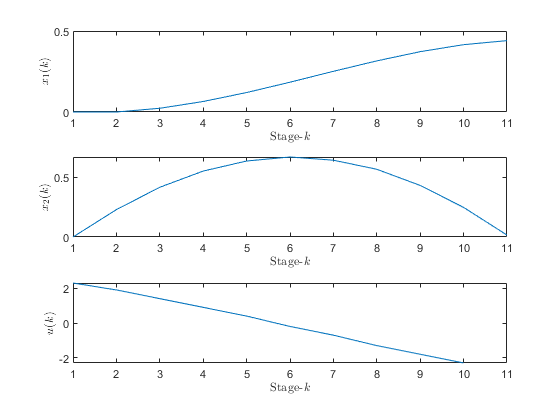
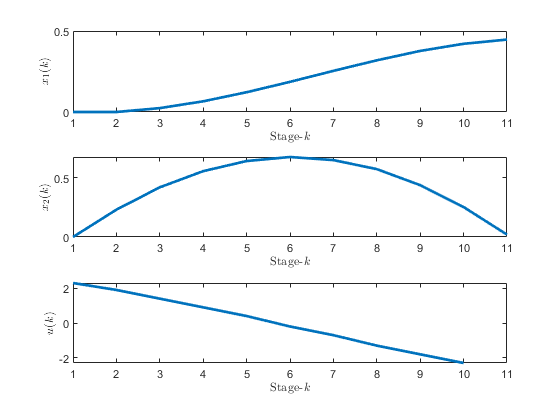
Re-simulating the dynamics during forward tracing is a bad idea!

diff --git a/trace_2X_1U.m b/trace_2X_1U.m
@@ -12,26 +12,25 @@ X1                = dps.X1;
 X2                = dps.X2;
 U_star_matrix     = dps.U_star_matrix;
 descendant_matrix = dps.descendant_matrix;
-state_update_fn   = dps.state_update_fn;
 
 % Initial stage is given by the IC
-r = snap(x1_ic, min(X1), max(X1), nX1-1);
-c = snap(x2_ic, min(X2), max(X2), nX2-1);
-
-id = sub2ind([nX1 nX2], r, c);
-[x1_id,x2_id] = ind2sub([nX1 nX2], id);
-x1_star(1) = X1(x1_id);
-x2_star(1) = X2(x2_id);
+r = snap(x1_ic, min(X1), max(X1), nX1);
+c = snap(x2_ic, min(X2), max(X2), nX2);
+x1_star(1) = X1(r);
+x2_star(1) = X2(c);
 
 % Trace to the end horizon
 fprintf('Froward tracing, please wait...\n')
 
-for k = 1 : n_horizon-1        
+id = sub2ind([nX1 nX2], r, c);
+for k = 1 : n_horizon-1      
     u_star(k)  = U_star_matrix(id, k);
-    [x1_star(k+1), x2_star(k+1)] = state_update_fn(x1_star(k), ...
-                                   x2_star(k), u_star(k));
-                               
-    id = descendant_matrix(id,k);        
+    
+    id = descendant_matrix(id,k);
+    [x1_id,x2_id] = ind2sub([nX1 nX2], id);               
+    
+    x1_star(k+1) = X1(x1_id);
+    x2_star(k+1) = X2(x2_id);    
 end
 
 fprintf('Complete!\n');
@@ -40,5 +39,4 @@ fprintf('Complete!\n');
 dps.x1_star = x1_star;
 dps.x2_star = x2_star;
 dps.u_star  = u_star;
-
 end

diff --git a/trace_3X_1U.m b/trace_3X_1U.m
@@ -15,28 +15,29 @@ X2                = dps.X2;
 X3                = dps.X3;
 U_star_matrix     = dps.U_star_matrix;
 descendant_matrix = dps.descendant_matrix;
-state_update_fn   = dps.state_update_fn;
 
 % Initial stage is given by the IC
 r = snap(x1_ic, min(X1), max(X1), nX1-1);
 c = snap(x2_ic, min(X2), max(X2), nX2-1);
 p = snap(x3_ic, min(X3), max(X3), nX3-1);
-
-id = sub2ind([nX1 nX2 nX3], r, c, p);
-[x1_id, x2_id, x3_id] = ind2sub([nX1 nX2 nX3], id);
-x1_star(1) = X1(x1_id);
-x2_star(2) = X2(x2_id);
-x3_star(3) = X3(x3_id);
+x1_star(1) = X1(r);
+x2_star(2) = X2(c);
+x3_star(3) = X3(p);
 
 % Trace to the end horizon
 fprintf('Froward tracing, please wait...\n')
 
+id = sub2ind([nX1 nX2 nX3], r, c, p);
 for k = 1 : n_horizon-1 
     u_star(k)  = U_star_matrix(id, k);    
-    [x1_star(k+1), x2_star(k+1), x3_star(k+1)] = ...
-        state_update_fn(x1_star(k), x2_star(k), x3_star(k), u_star(k));
     
     id = descendant_matrix(id,k);
+    [x1_id,x2_id,x3_id] = ind2sub([nX1 nX2 nX3], id);               
+
+    
+    x1_star(k+1) = X1(x1_id);
+    x2_star(k+1) = X2(x2_id);   
+    x3_star(k+1) = X3(x3_id);   
 end
 
 fprintf('Complete!\n');

diff --git a/demo_07_mountain_car.m b/demo_07_mountain_car.m
@@ -19,7 +19,7 @@ dps = dps_2X_1U(P, V, U, n_horizon, @state_update_fn, @stage_cost_fn, ...
                 @terminal_cost_fn);
 
 % Extract meaningful results
-dps = trace_2X_1U(dps, -0.5, 0);
+dps = trace_2X_1U(dps, -0.6, 0);
 
 % Do plotting here
 plot_2X_1U(dps, '-');
@@ -30,11 +30,6 @@ visualize(dps);
 function [p_next, v_next] = state_update_fn(p, v, u)
 v_next = v + 0.001*u - 0.0025*cos(3*p);
 p_next = p + v;
-
-% Left wall is inelastic
-if p_next <= -1.2
-    v_next = 0;
-end
 end
 
 %%
@@ -58,8 +53,9 @@ hold on;
 
 % Draw y = sine(3p)to representate a mountain
 p = -1.2:0.001:0.5;
-plot(p, sin(3 * p));    
+plot(p, 0.4*sin(3 * p), 'LineWidth', 2);    
 set(gca, 'YTickLabel', [ ]); 
+axis equal
 
 htext1 = text(-0.7,0.5, '');
 htext2 = text(-0.7,0.4, '');
@@ -70,7 +66,7 @@ for k = 1 : dps.n_horizon
     set(car, 'XData', dps.x1_star(k));
     
     % Plug the XStar to the equation of the mountain
-    set(car, 'YData', sin(3*dps.x1_star(k))); 
+    set(car, 'YData', 0.4*sin(3*dps.x1_star(k))); 
     
     htext1.String = ['Stage-', num2str(k), ', x = ', ...
         num2str(dps.x1_star(k)),', v = ', num2str(dps.x2_star(k))] ;

diff --git a/plot_2X_2U.m b/plot_2X_2U.m
@@ -1,7 +1,7 @@
 function plot_2X_2U(dps, line_style)
 figure
 subplot(4,1,1)
-plot(dps.x1_star, line_style)
+plot(dps.x1_star, line_style, 'LineWidth', 2)
 xlabel(['Stage-' '$k$'], 'Interpreter','latex')
 ylabel('$x_1(k)$', 'Interpreter','latex')
 xlim([1 dps.n_horizon])
@@ -10,7 +10,7 @@ ax = gca;
 ax.XTick = unique(round(ax.XTick) );
 
 subplot(4,1,2)
-plot(dps.x2_star, line_style)
+plot(dps.x2_star, line_style, 'LineWidth', 2)
 xlabel(['Stage-' '$k$'], 'Interpreter','latex')
 ylabel('$x_2(k)$', 'Interpreter','latex')
 xlim([1 dps.n_horizon])
@@ -19,7 +19,7 @@ ax = gca;
 ax.XTick = unique(round(ax.XTick) );
 
 subplot(4,1,3)
-plot(dps.u1_star, line_style)
+plot(dps.u1_star, line_style, 'LineWidth', 2)
 xlabel(['Stage-' '$k$'], 'Interpreter','latex')
 ylabel('$u_1(k)$', 'Interpreter','latex')
 xlim([1 dps.n_horizon])
@@ -29,7 +29,7 @@ ax = gca;
 ax.XTick = unique(round(ax.XTick) );
 
 subplot(4,1,4)
-plot(dps.u2_star, line_style)
+plot(dps.u2_star, line_style, 'LineWidth', 2)
 xlabel(['Stage-' '$k$'], 'Interpreter','latex')
 ylabel('$u_2(k)$', 'Interpreter','latex')
 xlim([1 dps.n_horizon])

diff --git a/plot_3X_1U.m b/plot_3X_1U.m
@@ -1,7 +1,7 @@
 function plot_3X_1U(dps, line_style)
 figure
 subplot(4,1,1)
-plot(dps.x1_star, line_style)
+plot(dps.x1_star, line_style, 'LineWidth', 2)
 xlabel(['Stage-' '$k$'], 'Interpreter','latex')
 ylabel('$x_1(k)$', 'Interpreter','latex')
 xlim([1 dps.n_horizon])
@@ -10,7 +10,7 @@ ax = gca;
 ax.XTick = unique(round(ax.XTick) );
 
 subplot(4,1,2)
-plot(dps.x2_star, line_style)
+plot(dps.x2_star, line_style, 'LineWidth', 2)
 xlabel(['Stage-' '$k$'], 'Interpreter','latex')
 ylabel('$x_2(k)$', 'Interpreter','latex')
 xlim([1 dps.n_horizon])
@@ -19,7 +19,7 @@ ax = gca;
 ax.XTick = unique(round(ax.XTick) );
 
 subplot(4,1,3)
-plot(dps.x3_star, line_style)
+plot(dps.x3_star, line_style, 'LineWidth', 2)
 xlabel(['Stage-' '$k$'], 'Interpreter','latex')
 ylabel('$x_3(k)$', 'Interpreter','latex')
 xlim([1 dps.n_horizon])
@@ -29,7 +29,7 @@ ax.XTick = unique(round(ax.XTick) );
 
 
 subplot(4,1,4)
-plot(dps.u_star, line_style)
+plot(dps.u_star, line_style, 'LineWidth', 2)
 xlabel(['Stage-' '$k$'], 'Interpreter','latex')
 ylabel('$u(k)$', 'Interpreter','latex')
 xlim([1 dps.n_horizon])

diff --git a/trace_2X_2U.m b/trace_2X_2U.m
@@ -14,27 +14,26 @@ X2                = dps.X2;
 U1_star_matrix    = dps.U1_star_matrix;
 U2_star_matrix    = dps.U2_star_matrix;
 descendant_matrix = dps.descendant_matrix;
-state_update_fn   = dps.state_update_fn;
 
 % Initial stage is given by the IC
 r = snap(x1_ic, min(X1), max(X1), nX1-1);
 c = snap(x2_ic, min(X2), max(X2), nX2-1);
-
-id = sub2ind([nX1 nX2], r, c);
-[x1_id,x2_id] = ind2sub([nX1 nX2], id);
-x1_star(1) = X1(x1_id);
-x2_star(1) = X2(x2_id);
+x1_star(1) = X1(r);
+x2_star(1) = X2(c);
 
 % Trace to the end horizon
 fprintf('Froward tracing, please wait...\n')
 
+id = sub2ind([nX1 nX2], r, c);
 for k = 1 : n_horizon-1
     u1_star(k)  = U1_star_matrix(id, k);
     u2_star(k)  = U2_star_matrix(id, k);    
-    [x1_star(k+1), x2_star(k+1)] = state_update_fn(x1_star(k), ...
-                                   x2_star(k), u1_star(k), u2_star(k));
     
     id = descendant_matrix(id,k);
+    [x1_id,x2_id] = ind2sub([nX1 nX2], id);   
+    
+    x1_star(k+1) = X1(x1_id);
+    x2_star(k+1) = X2(x2_id); 
 end
 
 fprintf('Complete!\n');

diff --git a/dps_3X_1U.m b/dps_3X_1U.m
@@ -64,10 +64,6 @@ x1_next_post_boundary = min(max(x1_next, lb(1)), ub(1));
 x2_next_post_boundary = min(max(x2_next, lb(2)), ub(2));
 x3_next_post_boundary = min(max(x3_next, lb(3)), ub(3));
 
-is_infeasible = (x1_next~=x1_next_post_boundary) + ...
-    (x2_next~=x2_next_post_boundary) + ...
-    (x3_next~=x3_next_post_boundary);
-
 r = snap(x1_next_post_boundary, repmat(lb(1),nX,nU), repmat(ub(1),nX,nU), ...
     repmat(nX1,nX,nU));
 c = snap(x2_next_post_boundary, repmat(lb(2),nX,nU), repmat(ub(2),nX,nU), ...
@@ -89,7 +85,7 @@ for k = n_horizon-1 : -1 : 1
     ll = fprintf('%i',k);    
     
     J_ = stage_cost_fn(X1(r), X2(c), X3(p), repmat(U',nX,1), k) + ...
-        reshape(J(ind,k+1),nX,nU) + is_infeasible .* 1e6;
+        reshape(J(ind,k+1),nX,nU);
     
     [J_min, J_min_idx] = min(J_, [], 2);
     
@@ -112,5 +108,4 @@ dps.X1                  = X1;
 dps.X2                  = X2;
 dps.X3                  = X3;
 dps.U                   = U;
-dps.state_update_fn     = state_update_fn;
 end

diff --git a/dps_2X_1U.m b/dps_2X_1U.m
@@ -59,9 +59,6 @@ i = repmat((1:nX)', 1,nU);
 x1_next_post_boundary = min(max(x1_next, lb(1)), ub(1));
 x2_next_post_boundary = min(max(x2_next, lb(2)), ub(2));
 
-is_infeasible = (x1_next~=x1_next_post_boundary) + ...
-    (x2_next~=x2_next_post_boundary);
-
 r = snap(x1_next_post_boundary, repmat(lb(1),nX,nU), repmat(ub(1),nX,nU), ...
     repmat(nX1,nX,nU));
 c = snap(x2_next_post_boundary, repmat(lb(2),nX,nU), repmat(ub(2),nX,nU), ...
@@ -81,7 +78,7 @@ for k = n_horizon-1 : -1 : 1
     ll = fprintf('%i',k);
     
     J_ = stage_cost_fn(X1(r), X2(c), repmat(U',nX,1), k) + ...
-        reshape(J(ind,k+1),nX,nU) + is_infeasible .* 1e9;
+        reshape(J(ind,k+1),nX,nU);
     
     [J_min, J_min_idx] = min(J_, [], 2);
     
@@ -103,6 +100,5 @@ dps.n_horizon = n_horizon;
 dps.X1                  = X1;
 dps.X2                  = X2;
 dps.U                   = U;
-dps.state_update_fn     = state_update_fn;
 
 end

diff --git a/dps_2X_2U.m b/dps_2X_2U.m
@@ -68,9 +68,6 @@ j = repmat((1:nU) , nX, 1);
 x1_next_post_boundary = min(max(x1_next, lb(1)), ub(1));
 x2_next_post_boundary = min(max(x2_next, lb(2)), ub(2));
 
-is_infeasible = (x1_next~=x1_next_post_boundary) + ...
-    (x2_next~=x2_next_post_boundary);
-
 rx = snap(x1_next_post_boundary, repmat(lb(1),nX,nU), repmat(ub(1),nX,nU), ...
     repmat(nX1,nX,nU));
 cx = snap(x2_next_post_boundary, repmat(lb(2),nX,nU), repmat(ub(2),nX,nU), ...
@@ -90,7 +87,7 @@ for k = n_horizon-1 : -1 : 1
     ll = fprintf('%i',k);
     
     J_ = stage_cost_fn(X1(rx), X2(cx), U1(ru), U2(cu), k) + ...
-        reshape(J(ind,k+1),nX,nU) + is_infeasible .* 1e6;
+        reshape(J(ind,k+1),nX,nU);
     
     [J_min, J_min_idx] = min(J_, [], 2);
     
@@ -116,6 +113,5 @@ dps.X1        = X1;
 dps.X2        = X2;
 dps.U1        = U1;
 dps.U2        = U2;
-dps.state_update_fn     = state_update_fn;
 
 end

diff --git a/dps_1X_1U.m b/dps_1X_1U.m
@@ -48,8 +48,6 @@ x_next = state_update_fn(X(i), repmat(U',nX,1));
 % Bound the states within the minimum and maximum values
 x_next_post_boundary = min(max(x_next, lb), ub);
 
-is_infeasible = (x_next~=x_next_post_boundary);
-
 ind = snap(x_next_post_boundary, ...
     repmat(lb,nX,nU), repmat(ub,nX,nU), repmat(nX,nX,nU));
 
@@ -65,7 +63,7 @@ for k = n_horizon-1 : -1 : 1
     ll = fprintf('%i',k);
     
     J_ = stage_cost_fn(X(i), repmat(U',nX,1), k) ...
-        + reshape(J(ind,k+1),nX,nU) + is_infeasible .* 1e6;
+        + reshape(J(ind,k+1),nX,nU);
     
     [J_min, J_min_idx] = min(J_, [], 2); % Row-wise
     
@@ -86,6 +84,5 @@ dps.U_star_matrix = U_star_matrix;
 dps.n_horizon           = n_horizon;
 dps.X                   = X;
 dps.U                   = U;
-dps.state_update_fn     = state_update_fn;
 
 end

diff --git a/plot_2X_1U.m b/plot_2X_1U.m
@@ -1,7 +1,7 @@
 function plot_2X_1U(dps, line_style)
 figure
 subplot(3,1,1)
-plot(dps.x1_star, line_style)
+plot(dps.x1_star, line_style, 'LineWidth', 2)
 xlabel(['Stage-' '$k$'], 'Interpreter','latex')
 ylabel('$x_1(k)$', 'Interpreter','latex')
 xlim([1 dps.n_horizon])
@@ -10,7 +10,7 @@ ax = gca;
 ax.XTick = unique(round(ax.XTick) );
 
 subplot(3,1,2)
-plot(dps.x2_star, line_style)
+plot(dps.x2_star, line_style, 'LineWidth', 2)
 xlabel(['Stage-' '$k$'], 'Interpreter','latex')
 ylabel('$x_2(k)$', 'Interpreter','latex')
 xlim([1 dps.n_horizon])
@@ -19,7 +19,7 @@ ax = gca;
 ax.XTick = unique(round(ax.XTick) );
 
 subplot(3,1,3)
-plot(dps.u_star, line_style)
+plot(dps.u_star, line_style, 'LineWidth', 2)
 xlabel(['Stage-' '$k$'], 'Interpreter','latex')
 ylabel('$u(k)$', 'Interpreter','latex')
 xlim([1 dps.n_horizon])

diff --git a/trace_1X_1U.m b/trace_1X_1U.m
@@ -9,7 +9,6 @@ n_horizon         = dps.n_horizon;
 X                 = dps.X;
 U_star_matrix     = dps.U_star_matrix;
 descendant_matrix = dps.descendant_matrix;
-state_update_fn   = dps.state_update_fn;
 
 id = snap(x_ic, min(X), max(X), nX-1);
 x_star(1) = X(id);
@@ -19,9 +18,10 @@ fprintf('Froward tracing, please wait...\n')
 
 for k = 1 : n_horizon-1    
     u_star(k) = U_star_matrix(id, k);    
-    x_star(k+1) = state_update_fn(x_star(k), u_star(k));    
-    
+        
     id = descendant_matrix(id,k);
+    
+    x_star(k+1) = X(id);    
 end
 
 fprintf('Complete!\n');
